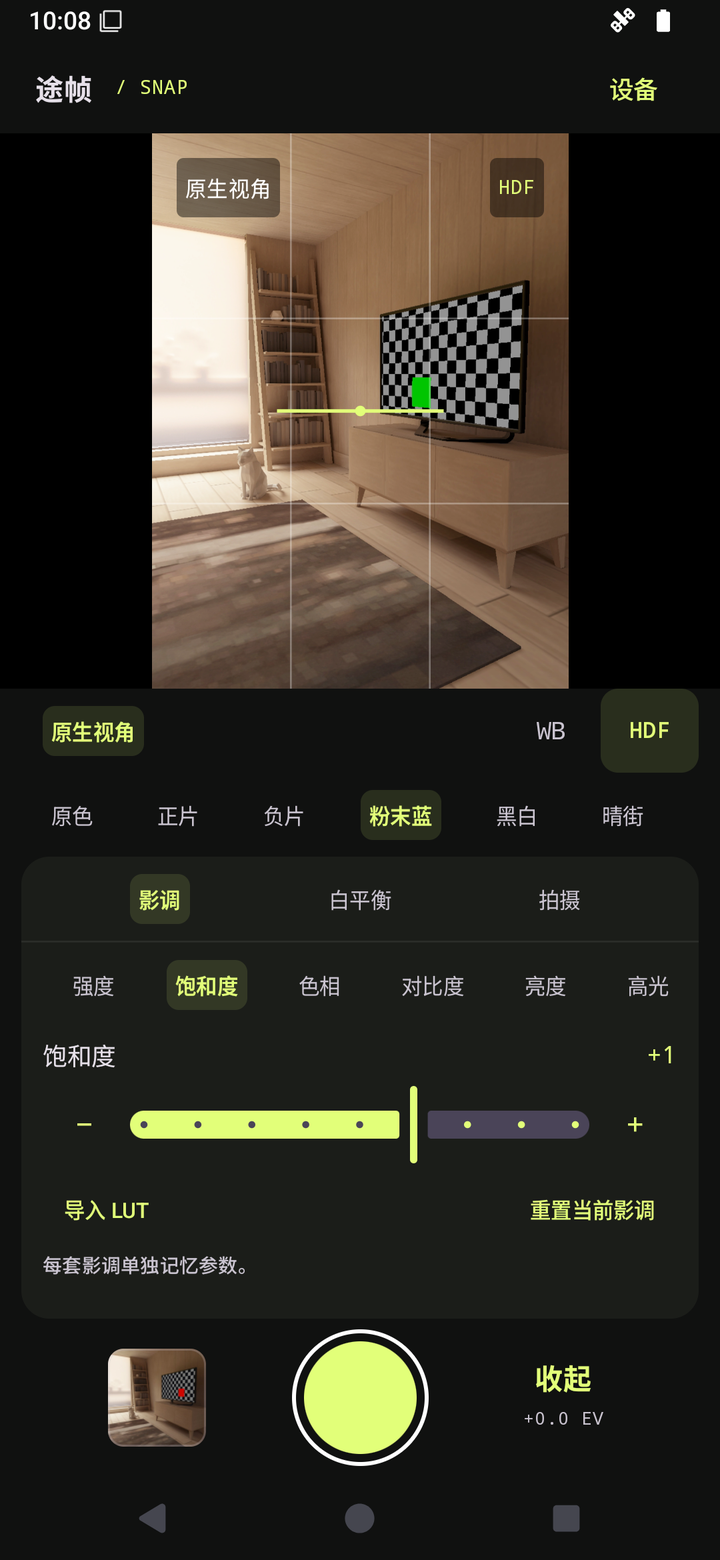
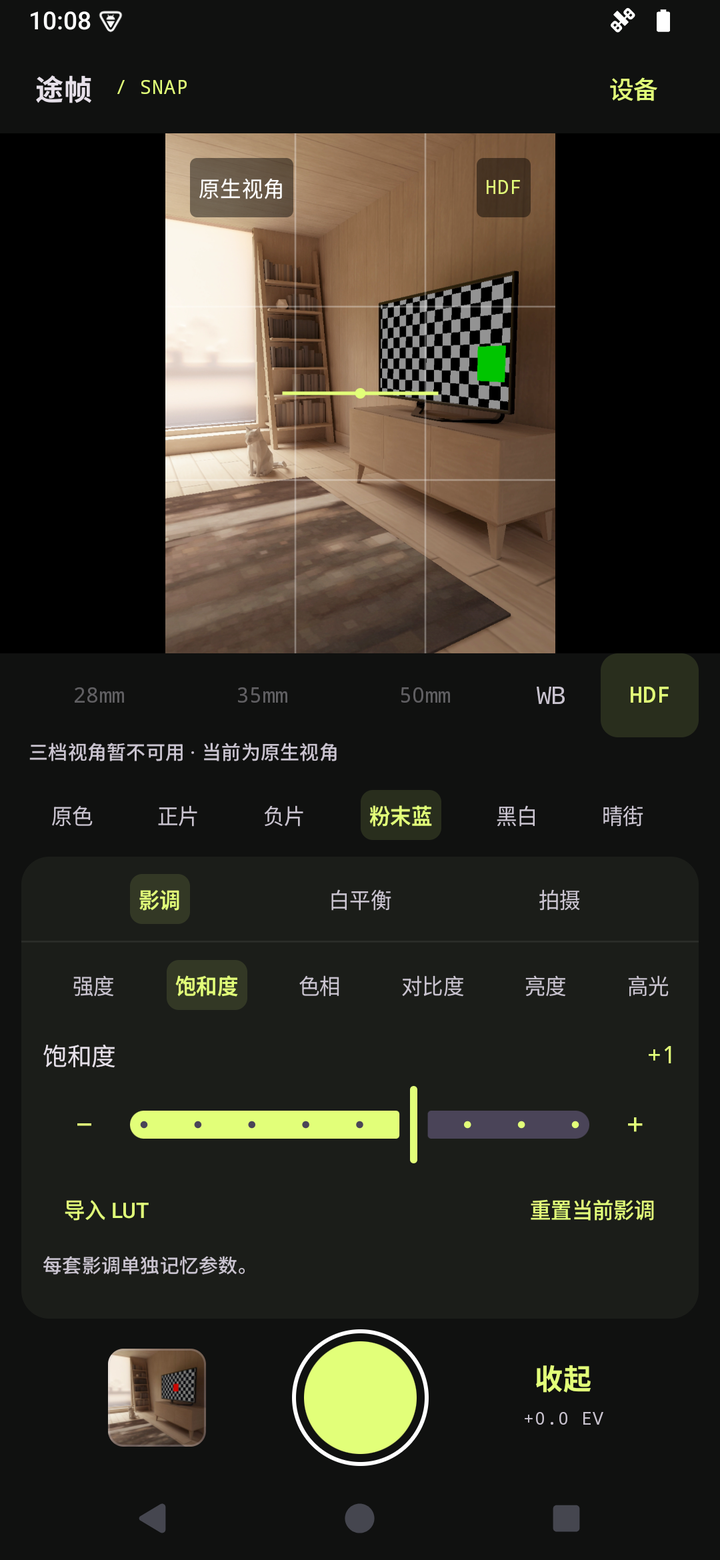
fix: keep camera controls responsive after white balance changes

diff --git a/camera/src/main/java/dev/streetsnap/camera/CameraController.kt b/camera/src/main/java/dev/streetsnap/camera/CameraController.kt
@@ -44,6 +44,8 @@ import kotlinx.coroutines.flow.update
 import kotlinx.coroutines.suspendCancellableCoroutine
 import kotlinx.coroutines.sync.Mutex
 import kotlinx.coroutines.sync.withLock
+import kotlinx.coroutines.TimeoutCancellationException
+import kotlinx.coroutines.withTimeout
 import kotlinx.coroutines.withContext
 import kotlin.coroutines.resume
 import kotlin.coroutines.resumeWithException
@@ -71,6 +73,12 @@ class CameraController(context: Context) {
     private var settingsApplied = false
     private var focusGeneration = 0L
     @Volatile private var closed = false
+
+    private companion object {
+        // Camera2 controls should acknowledge promptly; a stuck HAL must not disable every
+        // control until the activity is recreated.
+        const val CAMERA_CONTROL_TIMEOUT_MS = 2_000L
+    }
 
     @RequiresPermission(android.Manifest.permission.CAMERA)
     suspend fun bind(
@@ -332,22 +340,39 @@ class CameraController(context: Context) {
                 settings.autoExposureLocked != oldSettings.autoExposureLocked ||
                 settings.whiteBalance != oldSettings.whiteBalance
             if (requestOptionsChanged) {
-                if (manualFocus) current.cameraControl.cancelFocusAndMetering().awaitValue()
-                Camera2CameraControl.from(current.cameraControl).setCaptureRequestOptions(requests).awaitValue()
+                // Cancelling metering is only needed when entering manual focus. Repeating it
+                // for unrelated changes (for example WB) can wait forever on some camera HALs.
+                if (manualFocus && oldSettings.focusDistanceDiopters == null) {
+                    current.cameraControl.cancelFocusAndMetering().awaitValue(CAMERA_CONTROL_TIMEOUT_MS)
+                }
+                Camera2CameraControl.from(current.cameraControl)
+                    .setCaptureRequestOptions(requests)
+                    .awaitValue(CAMERA_CONTROL_TIMEOUT_MS)
             }
             if (needsAllSettings || oldSettings.focalLength != settings.focalLength) {
-                current.cameraControl.setZoomRatio(zoomRatio).awaitValue()
+                current.cameraControl.setZoomRatio(zoomRatio).awaitValue(CAMERA_CONTROL_TIMEOUT_MS)
             }
             if (!manualExposure && caps.exposureCompensationMin != caps.exposureCompensationMax &&
                 (needsAllSettings || oldSettings.iso != null ||
                     oldSettings.exposureCompensationIndex != settings.exposureCompensationIndex)) {
-                current.cameraControl.setExposureCompensationIndex(settings.exposureCompensationIndex).awaitValue()
+                current.cameraControl.setExposureCompensationIndex(settings.exposureCompensationIndex)
+                    .awaitValue(CAMERA_CONTROL_TIMEOUT_MS)
             }
             settingsApplied = true
             mutableState.update { it.copy(settings = settings, zoomRatio = zoomRatio, isReady = cameraOpen, error = null) }
         } catch (error: Exception) {
+            settingsApplied = needsAllSettings.not() && cameraOpen
+            val message = when (error) {
+                is TimeoutCancellationException -> "参数响应超时，请重试。"
+                is CancellationException -> null
+                else -> "参数未生效：${error.message}"
+            }
             mutableState.update {
-                it.copy(isReady = false, error = if (error is CancellationException) null else "参数未生效：${error.message}")
+                it.copy(
+                    settings = if (settingsApplied) oldSettings else it.settings,
+                    isReady = cameraOpen && settingsApplied,
+                    error = message,
+                )
             }
             throw error
         }
@@ -391,16 +416,22 @@ class CameraController(context: Context) {
             )
         }
 
-    private suspend fun <T> ListenableFuture<T>.awaitValue(cancelOnCancellation: Boolean = true): T = suspendCancellableCoroutine { continuation ->
-        addListener({
-            try {
-                val value = get()
-                if (continuation.isActive) continuation.resume(value)
-            } catch (error: Exception) {
-                if (continuation.isActive) continuation.resumeWithException(error.cause ?: error)
-            }
-        }, mainExecutor)
-        if (cancelOnCancellation) continuation.invokeOnCancellation { cancel(false) }
+    private suspend fun <T> ListenableFuture<T>.awaitValue(
+        timeoutMs: Long? = null,
+        cancelOnCancellation: Boolean = true,
+    ): T {
+        suspend fun awaitUnbounded(): T = suspendCancellableCoroutine { continuation ->
+            addListener({
+                try {
+                    val value = get()
+                    if (continuation.isActive) continuation.resume(value)
+                } catch (error: Exception) {
+                    if (continuation.isActive) continuation.resumeWithException(error.cause ?: error)
+                }
+            }, mainExecutor)
+            if (cancelOnCancellation) continuation.invokeOnCancellation { cancel(false) }
+        }
+        return if (timeoutMs == null) awaitUnbounded() else withTimeout(timeoutMs) { awaitUnbounded() }
     }
 
     private fun resolutionSelector(preferred: Size, maxPixels: Long): ResolutionSelector =

diff --git a/app/src/main/java/dev/streetsnap/app/CameraScreen.kt b/app/src/main/java/dev/streetsnap/app/CameraScreen.kt
@@ -33,6 +33,7 @@ import androidx.compose.foundation.layout.Arrangement
 import androidx.compose.foundation.layout.Box
 import androidx.compose.foundation.layout.BoxWithConstraints
 import androidx.compose.foundation.layout.Column
+import androidx.compose.foundation.layout.PaddingValues
 import androidx.compose.foundation.layout.Row
 import androidx.compose.foundation.layout.Spacer
 import androidx.compose.foundation.layout.fillMaxHeight
@@ -393,16 +394,43 @@ private fun ShootingControls(
     latestPhoto: Uri?,
     openPhoto: (Uri) -> Unit,
 ) {
+    val focalLengths = listOf(FocalLength.MM28, FocalLength.MM35, FocalLength.MM50)
+    val capabilities = state.capabilities
+    val supportedFocalLengths = capabilities?.focalLengthOptions.orEmpty()
+    val minimumFocalWidth = maxOf(48.dp, (48f * LocalDensity.current.fontScale).dp)
+    val focalHint = when {
+        capabilities == null -> "焦段信息尚不可用 · 可在“设备”查看详情"
+        focalLengths.none { it in supportedFocalLengths } && state.settings.focalLength == FocalLength.NATIVE ->
+            if (capabilities.nativeEquivalentFocalLengthMm == null) "焦段信息不可用 · 当前为原生视角"
+            else "三档视角暂不可用 · 当前为原生视角"
+        focalLengths.any { it !in supportedFocalLengths } -> "灰色视角暂不可用 · 可在“设备”查看详情"
+        else -> null
+    }
     Column(modifier.background(MaterialTheme.colorScheme.surface).padding(horizontal = 12.dp),
         horizontalAlignment = Alignment.CenterHorizontally) {
         Row(Modifier.fillMaxWidth().height(48.dp), verticalAlignment = Alignment.CenterVertically) {
-            val options = state.capabilities?.focalLengthOptions
-                ?: listOf(FocalLength.MM28, FocalLength.MM35, FocalLength.MM50)
-            Row(Modifier.weight(1f).horizontalScroll(rememberScrollState()),
-                horizontalArrangement = Arrangement.spacedBy(4.dp)) {
-                options.forEach { focal ->
-                    ControlButton(focal.label, state.settings.focalLength == focal,
-                        enabled = state.isReady && loaded, onClick = { model.setFocalLength(focal) })
+            BoxWithConstraints(Modifier.weight(1f)) {
+                val distribute = maxWidth >= minimumFocalWidth * 3 + 8.dp
+                Row(if (distribute) Modifier.fillMaxWidth() else Modifier.horizontalScroll(rememberScrollState()),
+                    horizontalArrangement = Arrangement.spacedBy(4.dp)) {
+                    focalLengths.forEach { focal ->
+                        val enabled = focal in supportedFocalLengths && state.isReady && loaded
+                        val selected = enabled && state.settings.focalLength == focal
+                        TextButton(onClick = { model.setFocalLength(focal) }, enabled = enabled,
+                            modifier = (if (distribute) Modifier.weight(1f) else Modifier.widthIn(min = minimumFocalWidth))
+                                .height(48.dp).semantics { this.selected = selected },
+                            contentPadding = PaddingValues(horizontal = 4.dp, vertical = 8.dp),
+                            shape = RoundedCornerShape(10.dp)) {
+                            Text(focal.label, Modifier.background(
+                                if (selected) MaterialTheme.colorScheme.primary.copy(alpha = .12f) else Color.Transparent,
+                                RoundedCornerShape(7.dp)).padding(horizontal = 4.dp, vertical = 4.dp),
+                                color = if (!enabled) MaterialTheme.colorScheme.onSurface.copy(alpha = .38f)
+                                else if (selected) MaterialTheme.colorScheme.primary else MaterialTheme.colorScheme.onSurfaceVariant,
+                                fontFamily = FontFamily.Monospace, fontSize = 12.sp,
+                                fontWeight = if (selected) FontWeight.SemiBold else FontWeight.Normal,
+                                maxLines = 1, overflow = TextOverflow.Ellipsis)
+                        }
+                    }
                 }
             }
             TextButton(onClick = {
@@ -424,6 +452,8 @@ private fun ShootingControls(
                     color = if (settings.hdfEnabled) MaterialTheme.colorScheme.primary else MaterialTheme.colorScheme.onSurfaceVariant)
             }
         }
+        if (focalHint != null) Text(focalHint, Modifier.fillMaxWidth().padding(start = 4.dp, bottom = 4.dp),
+            style = MaterialTheme.typography.labelSmall, color = MaterialTheme.colorScheme.onSurfaceVariant)
         Row(Modifier.fillMaxWidth().height(48.dp).horizontalScroll(rememberScrollState()),
             horizontalArrangement = Arrangement.spacedBy(2.dp), verticalAlignment = Alignment.CenterVertically) {
             ColorPreset.entries.filter { it != ColorPreset.CUSTOM || settings.lutName != null }.forEach { preset ->

diff --git a/README.md b/README.md
@@ -140,9 +140,9 @@ Android v0.2 开发预览已提供可安装 APK。接下来完善拍照体验与
 
 | 取景与快拍 | 行色 · 影调微调 | WB · 白平衡漂移 |
 | :---: | :---: | :---: |
-| <img src="docs/images/viewfinder.png" width="250" alt="途帧取景界面，包含影调选择、构图网格与快门"> | <img src="docs/images/color-controls.png" width="250" alt="行色调整面板，粉末蓝预设与饱和度调节"> | <img src="docs/images/white-balance.png" width="250" alt="白平衡预设与 A–B、G–M 漂移控制"> |
+| <img src="docs/images/viewfinder.png" width="250" alt="途帧取景界面，包含 28 / 35 / 50mm 视角按钮、构图网格与快门"> | <img src="docs/images/color-controls.png" width="250" alt="行色调整面板，粉末蓝预设与饱和度调节"> | <img src="docs/images/white-balance.png" width="250" alt="白平衡预设与 A–B、G–M 漂移控制"> |
 
-Android 15 模拟器中的实际 APK 截图，取景为内置测试场景。截图用于展示交互，实拍效果以设备为准。
+Android 15 模拟器中的实际 APK 截图，取景为内置测试场景。28 / 35 / 50mm 按钮固定显示，不支持的视角置灰；图中模拟器使用原生视角。实拍效果以设备为准。
 
 ## 安装与发布
 

diff --git a/docs/images/README.md b/docs/images/README.md
@@ -2,11 +2,11 @@
 
 这三张图片来自实际 Preview APK，运行于 Android 15（API 35）AOSP ARM64 模拟器，使用内置 `virtualscene` 后置相机。截图用于展示操作界面，不代表真机拍摄效果。
 
-- `viewfinder.png`：正片影调、HDF、构图网格与拍照后的缩略图。
+- `viewfinder.png`：三档视角按钮、正片影调、HDF、构图网格与拍照后的缩略图。
 - `color-controls.png`：粉末蓝影调与饱和度调节。
 - `white-balance.png`：设备提供的白平衡选项及 A–B / G–M 漂移。
 
-模拟器的相机元数据不足以确定等效焦段，因此界面如实显示「原生视角」。28 / 35 / 50mm 选项按真实设备的相机能力提供。
+28 / 35 / 50mm 三档按钮固定显示，只有设备支持的视角可以切换；不支持的选项置灰，并在下方说明原因。图中模拟器使用「原生视角」，不会将未标定的画面标成某个等效焦段。真实设备按相机能力启用对应视角与白平衡预设。
 
 ## 更新方式
 

diff --git a/docs/android-development.md b/docs/android-development.md
@@ -65,7 +65,7 @@ GitHub Actions 的 **Android** 工作流在推送到 `main`、PR 或手动触发
 
 ## 当前范围与边界
 
-- 三档视角基于相机元数据与数字裁切。元数据未知时只显示原生视角；设备原生视角不够广时，不提供更广的虚假焦段。
+- 三档视角基于相机元数据与数字裁切。28 / 35 / 50mm 按钮固定显示，不支持的选项置灰并说明原因；元数据未知时使用原生视角，设备原生视角不够广时不启用更广的焦段。
 - 能唯一匹配物理主摄时尝试固定镜头；无法固定时在设备能力中记录，需要真机检查是否发生厂商自动换镜。
 - 手动 ISO / 快门、手动对焦与曝光补偿按能力启用。不把屈光度滑杆标成精确米制距离，不承诺泛焦。
 - 行色支持 SDR sRGB、17³ / 33³ 的 `.cube` 3D LUT，输入文件最多 4 MiB。暂不支持 Log、HDR、1D 或混合 LUT。
